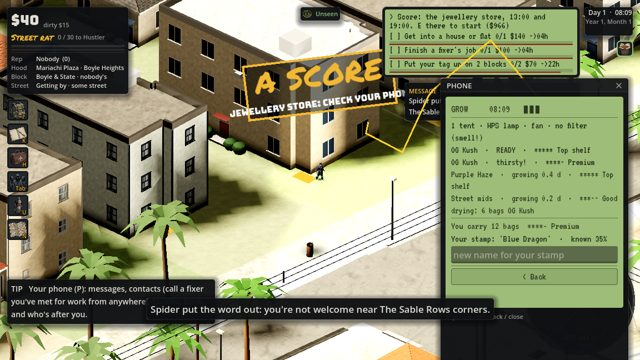
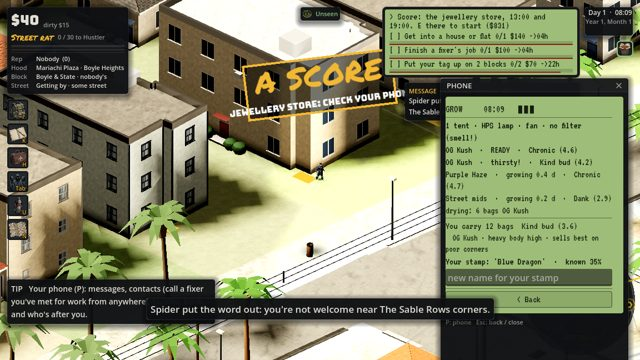
QL3: quality in street words, strains that differ, your own prices
Stars are gone. Quality now reads the way the street said it in the
90s, five grades per drug: weed from Schwag through Mids, Dank and Kind
bud to Chronic; coke from Baking soda to Uncut; heroin to China white;
meth to Pure glass; pills from Bunk to Double-stacked. Workers read
Green to A pro, night spots Dive to The place to be.

Six weed strains, each its own plant: Street mids (cheap, plain),
Skunk #1 (huge yield, stinks: the neighbours notice), Northern Lights
(fast, barely smells, rich buyers like it), OG Kush (heavy body high,
moves on poor corners), Blueberry (sweet, for rich blocks) and Purple
Haze (head high, slow, made for clubs). Sold where it fits, a strain
fetches a quarter more; mix strains and the name is lost. Pills come
as doves (MDMA powder, for clubs) or speedy whites (cheaper powder, for
corners). Phone pages say what you carry and where it sells best.

You set your own prices on Phone > Prices (+/- $1 or $5, or back to
fair). Your crew's corners and your clubs' door staff sell at your
price: at its worth everyone buys, at 1.5x half do, at double hardly
anyone, but each pays what you ask. Decent weed sold cheap makes
regulars too. Dealers buying in bulk still pay their own price.

Checks (targeted): new verify_quality PASS (double price: 5 sales
against 127, at twice the money); grow, drug_lab, venue, crew dealer,
staff, items, phone, next_step, save, deals PASS; album: new
phone_prices; phone_grow and phone_club now in words.
[…]

diff --git a/debug/TESTS.md b/debug/TESTS.md
@@ -1,6 +1,6 @@
 # Tests (generated by tools/qa/index.py: do not edit by hand)
 
-122 checks.
+123 checks.
 
 
 Run one: `$G --headless --path . -s debug/verify_<name>.gd 2>&1 | tail -20`
@@ -165,7 +165,7 @@ In the game: Admin on (pause menu), F11, Tests tab: quick checks on a running ga
 | `render_palette` | Render check: both map palettes (day and night) have a colour for every road tier, every casing edge, sidewalks, kerbs and every area/building kind the city uses -- a missing key is a script error that stops the map drawing. |
 | `street_section` | MP2 validator: the street cross-section. Every street's sidewalk band splits into parkway + paving without losing or inventing width, LA has both kinds of street, and every feature on the band sits where it belongs: tree wells inside the band and never in a bu |
 
-## Other (20)
+## Other (21)
 
 | check | what it proves |
 |---|---|
@@ -183,6 +183,7 @@ In the game: Admin on (pause menu), F11, Tests tab: quick checks on a running ga
 | `items` | G1 validator: items and counters. 1. A shop sells food at its price in opening hours, refuses at night and when you are broke; the till takes the money. 2. A dealer sells a pistol and rounds at any hour; a workshop sells a bat. 3. Q only cycles through weapons |
 | `memory` | ME1 validator: a mugging is remembered; the victim who sees you again shouts it over their head and calls the police (once), and runs next time; a friend says hello and, with police after you, tips you off; a store you held up won't serve you; a friend joins y |
 | `prison` | JL1 validator: inside, keeping your head down takes a day off every few days; the yard pays; an appeal with clean money cuts days (without it, it doesn't); a failed escape adds days and a good one gets you out wanted; your crew's loyalty slips each day (less w |
+| `quality` | QL3 validator: quality reads as street words per drug (and for staff and night spots); strains differ: Skunk #1 yields more and stinks more than Northern Lights, which ripens faster; each sells best where it fits; mixing strains loses the name; pills differ by |
 | `route_queue` | BUG-12 validator: walkers waiting for a route helper are served first come, first served. Ten "greedy" walkers ask for a new long route every time they get one, and are always asked first (as the sim asks in the same order every tick). A quiet walker asked las |
 | `scripts_parse` | Every script in the game compiles (the checks only load what they use; a broken HUD or panel would otherwise only show up when Phil presses Play). |
 | `staff` | BZ2 validator: you can hire a grower from the people near home; leave them seeds and food and they plant, water, feed, harvest and bag into the stash on their own for days (a shifty one keeps a cut); a skilled one grows better weed; a manager lifts a shop's ta |

diff --git a/docs/CODEMAP.md b/docs/CODEMAP.md
@@ -211,6 +211,7 @@ One line per script: what it is for. Read the file only when you need it; find s
 | `gamble_system.gd` | GambleSystem | BZ3: you at the table. After dark (OPEN_FROM to OPEN_TO) the back of a pawn shop or a liquor store runs a game (E: "Back-room game"), and so does any back room of your own. Two games, played in GambleWindow: blackjack bet, two cards each; hit or stand; the dea |
 | `gang_life_system.gd` | GangLifeSystem | RP3: join a gang and rise in it, instead of only fighting them. JOIN E by one of a gang's people, on their turf: "Ask to join". They take you if you're in good with them (standing JOIN_STANDING: deals, gun sales, gang jobs), known on the street (Rep Known), an |
 | `gig_system.gd` | GigSystem | RP2: a straight life on the side (RP-server style), all through the phone's Jobs and Property apps: GIGS three legal gigs a day, clean pay: delivery pick up at a shop, drop at an address before the time taxi a fare from A to B (needs a car and a licence) secur |
+| `grades.gd` | Grades | QL3: quality in words, the way the street says it (1990s), not stars. Every drug has five grades by its 1-5 quality; workers and night spots have theirs too. Plus what a weed strain or a pill does, and where it sells best (StrainFit): a body high moves on poor |
 | `grow_system.gd` | GrowSystem | BZ1: grow it yourself, by hand, at home. Gear comes from a hardware counter (tent, a shop light or a proper HPS lamp, a fan, a carbon filter, plant food); seeds come from a dealer. Set it up at your home door (E), plant, water at least every WATER_H game hours |
 | `gun_trade.gd` | GunTrade | Gun trade (WP1). Sell a gun you carry to a gang member (Esc next to one): the best gun first. Pays more than a dealer charged; the gang likes you better (more for clean guns) and is better armed in its fights. No gun ledger: a gun you sold is never traced back |
 | `heist_system.gd` | HeistSystem | HS1: the big score. Every few game days (once you are a Hustler) word of a score reaches your phone: a jewellery store, a gang stash house, or an armoured van stopped at a corner for an hour. Then: 1 CASE IT stand near it (CASE_M) for CASE_S: you learn how man |

diff --git a/docs/ROADMAP.md b/docs/ROADMAP.md
@@ -61,6 +61,7 @@ prints busts.
 - [x] BZ2 staff: hire a grower (runs the grow from a stock of seeds and food, bags into a stash) or a shop manager (+ up to 40% takings); skill stars, a daily wage, honesty you can only guess (shifty ones skim); unpaid or fired without severance, a grower becomes a witness; Phone > Business
 - [x] BZ3 nightlife: turn a shop you own into a nightclub, gentlemen's club or card room (licence, clean money); fit-out and a good manager add stars; takings at closing by hood and stars; a bouncer stops fights; washes more dirty money; an illegal back room pays big until vice raids it; back-room blackjack and dice at night at pawn shops and liquor stores
 - [x] BZ4 drug chain: a pill press (pill powder from dealers), a hands-on meth cook (keep the heat in the green; past the red it burns), imports from Soldier rank (cash up front, a warehouse pick-up window, sometimes a sting); stars on every drug set its price; step on coke and heroin; your clubs' door staff sell your pills; new chemistry skill; Phone > Connect
+- [x] QL3 quality in street words (Schwag to Chronic, Baking soda to Uncut; workers Green to A pro; night spots Dive to The place to be); six weed strains with their own high, smell, speed, yield and best market; doves and speedy whites; you set your own prices (Phone > Prices): all buyers bite at its worth, half at 1.5x
 
 ## Indie mistakes we design against (Phil, 2026-11: "doesn't it look boring and repetitive?")
 

diff --git a/CHANGELOG.md b/CHANGELOG.md
@@ -5,6 +5,7 @@ Newest first. The in-game admin panel (F11, Bugs & updates) shows the top of it.
 
 ## 2026-11-17
 
+- BZ4: the drug chain: press, cook, import
 - BZ3: night spots, back rooms and a seat at the table
 - BZ2: hire people to work for you
 - BZ1: grow your own weed, with stars, your stamp and regulars
